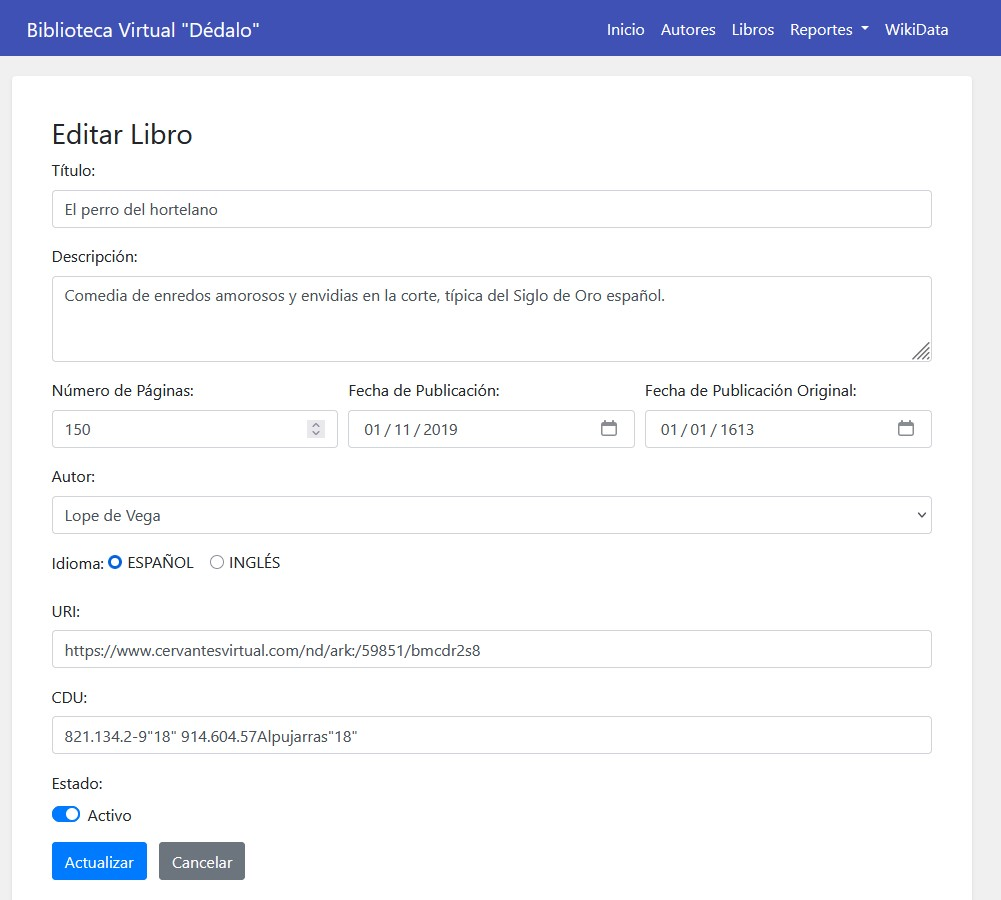
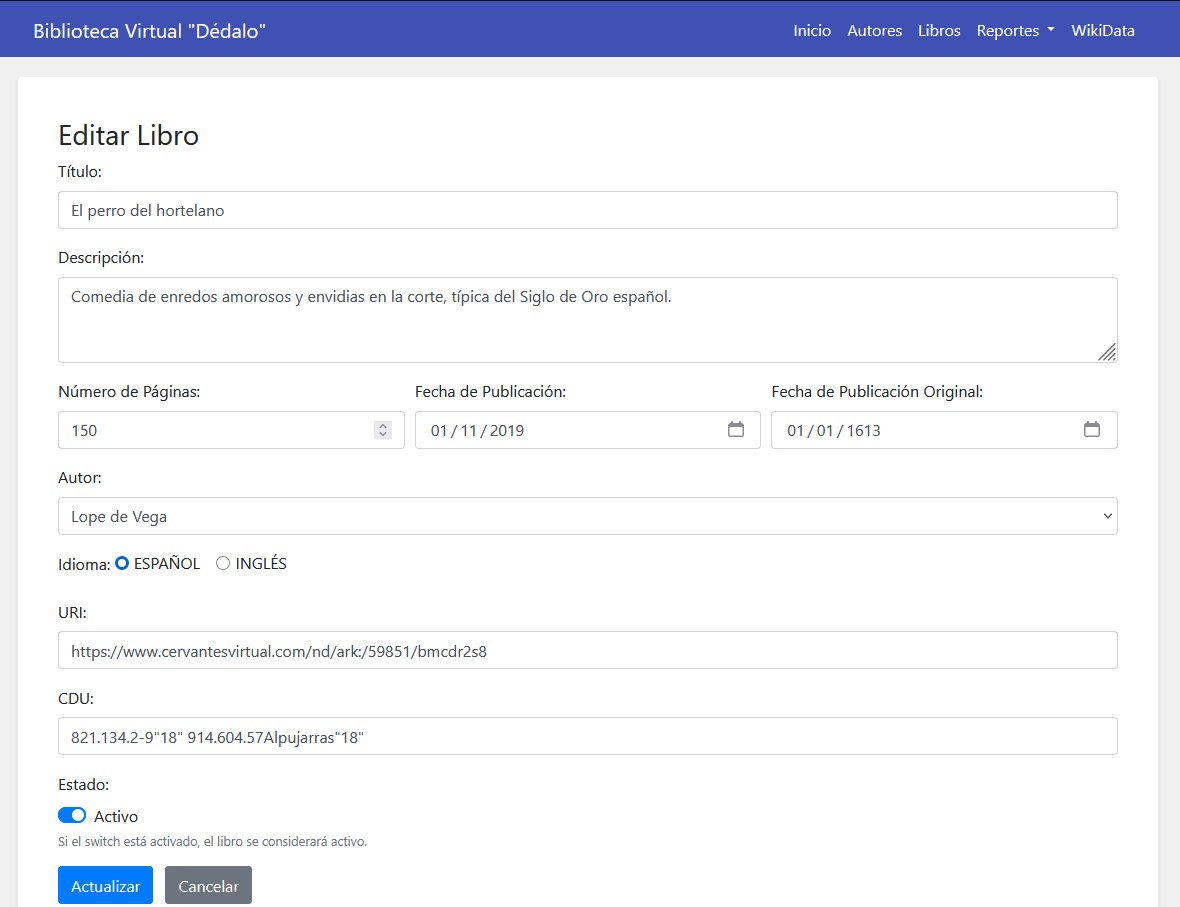
Actualización en el formulario de edición de libro

diff --git a/src/main/resources/templates/book/form.html b/src/main/resources/templates/book/form.html
@@ -90,6 +90,7 @@
         <input type="checkbox" th:field="*{status}" class="custom-control-input" id="estadoSwitch">
         <label class="custom-control-label" for="estadoSwitch">Activo</label>
       </div>
+      <small class="form-text text-muted">Si el switch está activado, el libro se considerará activo.</small>
     </div>
 
     <!-- Botón de envío y Cancelar -->

diff --git a/src/main/java/es/ua/biblioteca/controller/BookController.java b/src/main/java/es/ua/biblioteca/controller/BookController.java
@@ -1,5 +1,6 @@
 package es.ua.biblioteca.controller;
 
+import es.ua.biblioteca.model.Author;
 import es.ua.biblioteca.model.Book;
 import es.ua.biblioteca.service.IBookService;
 import es.ua.biblioteca.service.IAuthorService;
@@ -26,7 +27,9 @@ public class BookController {
     // Método GET para mostrar el formulario de creación de libro.
     @GetMapping("/create")
     public String showCreateBookForm(Model model) {
-        model.addAttribute("book", new Book());
+        Book newBook = new Book();
+        newBook.setStatus(true);
+        model.addAttribute("book", newBook);
         // Cargar la lista de autores para el combobox.
         model.addAttribute("authors", authorService.findAll());
         return "book/form";  // Ubicación del template: book/form.html
